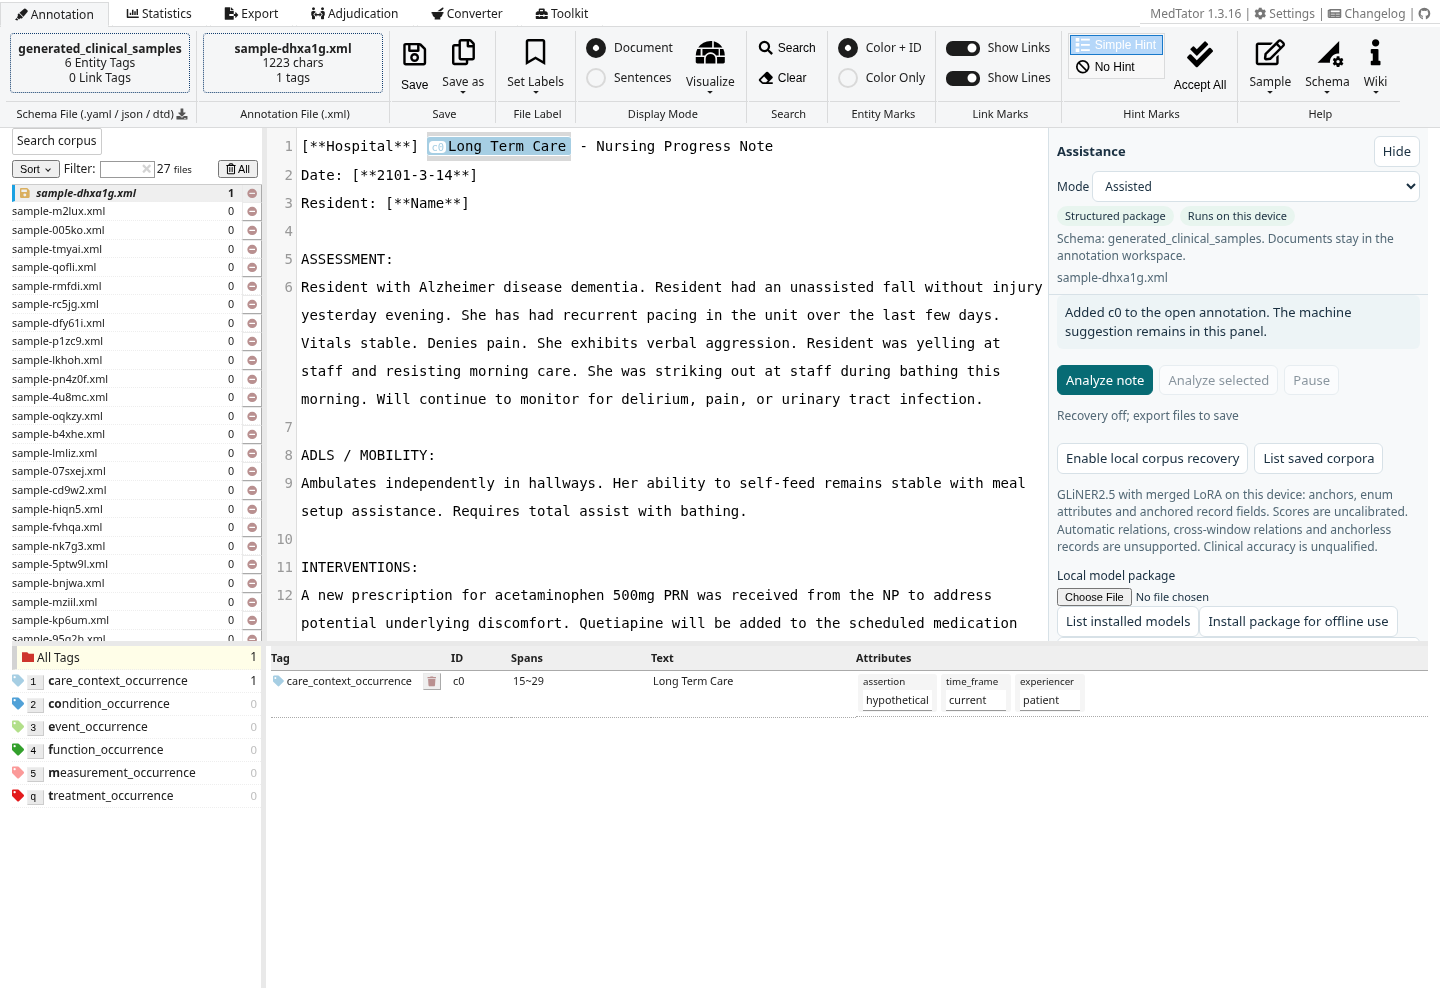
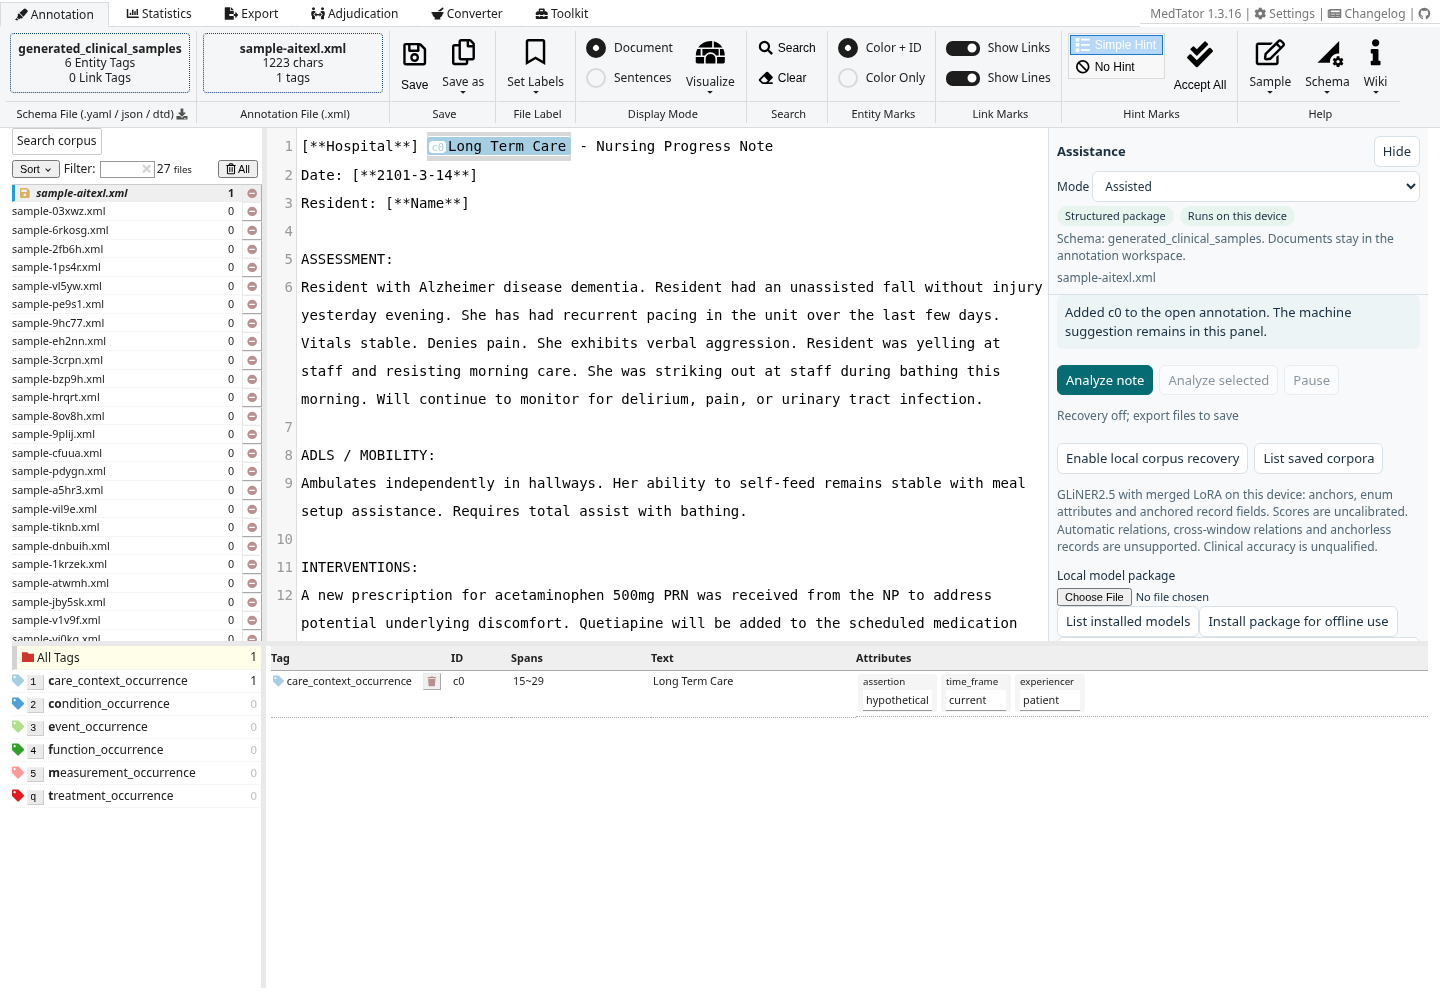
Preserve attribute word masks and address LoRA packager review

Changed region(s): [[0.0312, 0.186, 0.0938, 0.651], [0.1562, 0.031, 0.25, 0.062]]

diff --git a/tools/gliner-onnx/tests/test_inputs.py b/tools/gliner-onnx/tests/test_inputs.py
@@ -9,6 +9,7 @@ from types import SimpleNamespace
 from unittest.mock import patch
 
 from gliner_onnx.inputs import BASE_FILES, read_adapter, resolve_base, verify_base
+from gliner_onnx.cli import fixture_paths
 
 
 class Inputs(unittest.TestCase):
@@ -35,6 +36,14 @@ class Inputs(unittest.TestCase):
         _, hash_dir = read_adapter(self.root/'a', self.root/'b')
         self.assertEqual(hash_zip, hash_dir)
         self.assertEqual(resolve_base(cfg), ('fastino/gliner2.5-base-v1', 'a'*40))
+
+    def test_source_and_head_fixtures_are_packaged_exactly_once(self):
+        source = ['source-case-0.json', 'model-reference-0.json', 'attributes-reference.json']
+        for name in [*source, 'records-reference.json', 'relations-reference.json']:
+            (self.root/name).write_text('{}')
+        paths = fixture_paths(self.root, [*source, source[1]])
+        self.assertEqual(paths, [*source, 'records-reference.json', 'relations-reference.json'])
+        self.assertEqual(len(paths), len(set(paths)))
 
     def test_reject_unsafe_and_ambiguous_archives(self):
         for member in ['../adapter_model.safetensors', '/absolute', 'windows\\file', 'arbitrary-name/adapter_config.json', 'other/adapter_config.json']:

diff --git a/tools/gliner-onnx/src/gliner_onnx/cli.py b/tools/gliner-onnx/src/gliner_onnx/cli.py
@@ -98,6 +98,11 @@ def source_cases(model, cases):
     return captures
 
 
+def fixture_paths(output, source_paths):
+    """Keep each fixture once in both the manifest and archive, in export order."""
+    return list(dict.fromkeys([*source_paths, *sorted(path.name for path in output.glob('*-reference.json'))]))
+
+
 def export_model(model, captures, output):
     import torch
     import numpy as np
@@ -153,8 +158,7 @@ def export_model(model, captures, output):
         reports.append({'case': i, 'sourceSpansExact': True, 'sourceScoresWithinTolerance': True, 'outputErrors': errors})
     del native
     heads = export_heads(model, output, attribute_source)
-    paths += sorted(path.name for path in output.glob('*-reference.json'))
-    return paths, {'mainExportErrors': export_error, 'sourceCases': reports, 'heads': heads}
+    return fixture_paths(output, paths), {'mainExportErrors': export_error, 'sourceCases': reports, 'heads': heads}
 
 
 def build(args):

diff --git a/docs/nextmedtator/GENERATED-NOTE-VALIDATION.md b/docs/nextmedtator/GENERATED-NOTE-VALIDATION.md
@@ -23,14 +23,20 @@ fixtures pass in Chromium 151 with ORT Web 1.23.2 WASM. All 27 notes complete
 offline with full source coverage and valid code-point offsets, each in one
 window. The portable corpus exports and reopens with identical source texts
 and all 27 machine runs; adapter identity is retained. Requests are local
-GETs with no note bodies. Cloud median inference time is 4.84 seconds per
-note, maximum 7.18 seconds; this is not target-device qualification.
+GETs with no note bodies. Cloud median inference time is 4.90 seconds per
+note, maximum 7.30 seconds; this is not target-device qualification.
 
 The original MedTator UI also loads all 27 notes. A representative note passes
 real inference, CodeMirror span location, acceptance into a native tag and
 evidence export with its original text and adapter lineage. See the
 [screenshot](qualification/clinical-p4-generated-notes-ui.png) and
 [full report](qualification/clinical-p4-generated-notes.json).
+
+Both adapters were rerun after PR review found a lost word mask in attribute
+scoring. The encoder mask now reaches the attribute head, and padded word
+states remain masked. The tables and JSON reports below use these corrected
+runs; package weights, schema and threshold remain the same. All 120 app,
+10 packager and four generated-note unit tests pass.
 
 ## Generated-reference agreement
 
@@ -47,9 +53,9 @@ code-point range, with multiset matching for duplicates. Threshold remains
 | Micro precision agreement | 68.7% | 76.9% |
 | Micro recall agreement | 36.2% | 61.5% |
 | Micro F1 agreement | 47.5% | 68.3% |
-| Assertion on matched, labeled anchors | 40 / 223 (17.9%) | 283 / 379 (74.7%) |
-| Experiencer on matched, labeled anchors | 17 / 87 (19.5%) | 68 / 146 (46.6%) |
-| Time frame on matched, labeled anchors | 43 / 85 (50.6%) | 95 / 134 (70.9%) |
+| Assertion on matched, labeled anchors | 41 / 223 (18.4%) | 288 / 379 (76.0%) |
+| Experiencer on matched, labeled anchors | 17 / 87 (19.5%) | 74 / 146 (50.7%) |
+| Time frame on matched, labeled anchors | 44 / 85 (51.8%) | 95 / 134 (70.9%) |
 | Exact condition time evidence on matched, labeled anchors | 2 / 26 | 11 / 41 |
 
 Anchor F1 increases by **20.9 percentage points**. The context rows above use
@@ -58,14 +64,15 @@ for that selection, we also score the 204 exact anchors matched by both:
 
 | Common-anchor attribute | Labeled common anchors | mixv1 | ClinicalEvidence P4 |
 |---|---:|---:|---:|
-| Assertion | 203 | 19.2% | 74.4% |
-| Experiencer | 78 | 17.9% | 44.9% |
-| Time frame | 75 | 49.3% | 65.3% |
+| Assertion | 203 | 19.7% | 74.9% |
+| Experiencer | 78 | 17.9% | 50.0% |
+| Time frame | 75 | 50.7% | 65.3% |
 
 The [comparison report](qualification/adapter-comparison.json) retains full
 counts, per-family/per-note results, source hashes and both adapter identities.
-The [previous mixv1 report](qualification/mixv1-generated-notes.json) remains
-archived. Experiencer and exact time evidence remain weak despite improvement.
+The [mixv1 baseline report](qualification/mixv1-generated-notes.json) also
+includes the corrected-mask rerun. Experiencer and exact time evidence remain
+weak despite improvement.
 
 Unlabeled attributes are not assumed negative. Per-family and per-note results
 are retained in the report. These results describe the current app schema,

diff --git a/docs/nextmedtator/STATUS.md b/docs/nextmedtator/STATUS.md
@@ -1,6 +1,6 @@
 # Implementation and qualification status
 
-PRD baseline validated on 2026-10-03; Phase 4 adapter follow-up validated on 2026-10-04. This is a baseline engineering preview; the full public/clinical release is not yet qualified.
+PRD baseline validated on 2026-10-03; Phase 4 adapter follow-up revalidated after PR review on 2026-10-05. This is a baseline engineering preview; the full public/clinical release is not yet qualified.
 
 ## Supplied LoRA follow-up
 
@@ -12,7 +12,7 @@ The [generated-note follow-up](GENERATED-NOTE-VALIDATION.md) validates all 27
 supplied notes offline and in portable exports, and exercises a representative
 note in the original UI. Exact-anchor agreement with the 618 generated labels
 improves from 47.5% to 68.3% micro F1 after replacing mixv1 with Phase 4.
-Assertion agreement is 74.7%, experiencer 46.6% and time frame 70.9% on the
+Assertion agreement is 76.0%, experiencer 50.7% and time frame 70.9% on the
 current adapter's matched, labeled anchors. These unverified
 references do not qualify clinical accuracy. The full 17-choice status union
 is explicitly rejected by the current eight-choice attribute head.
